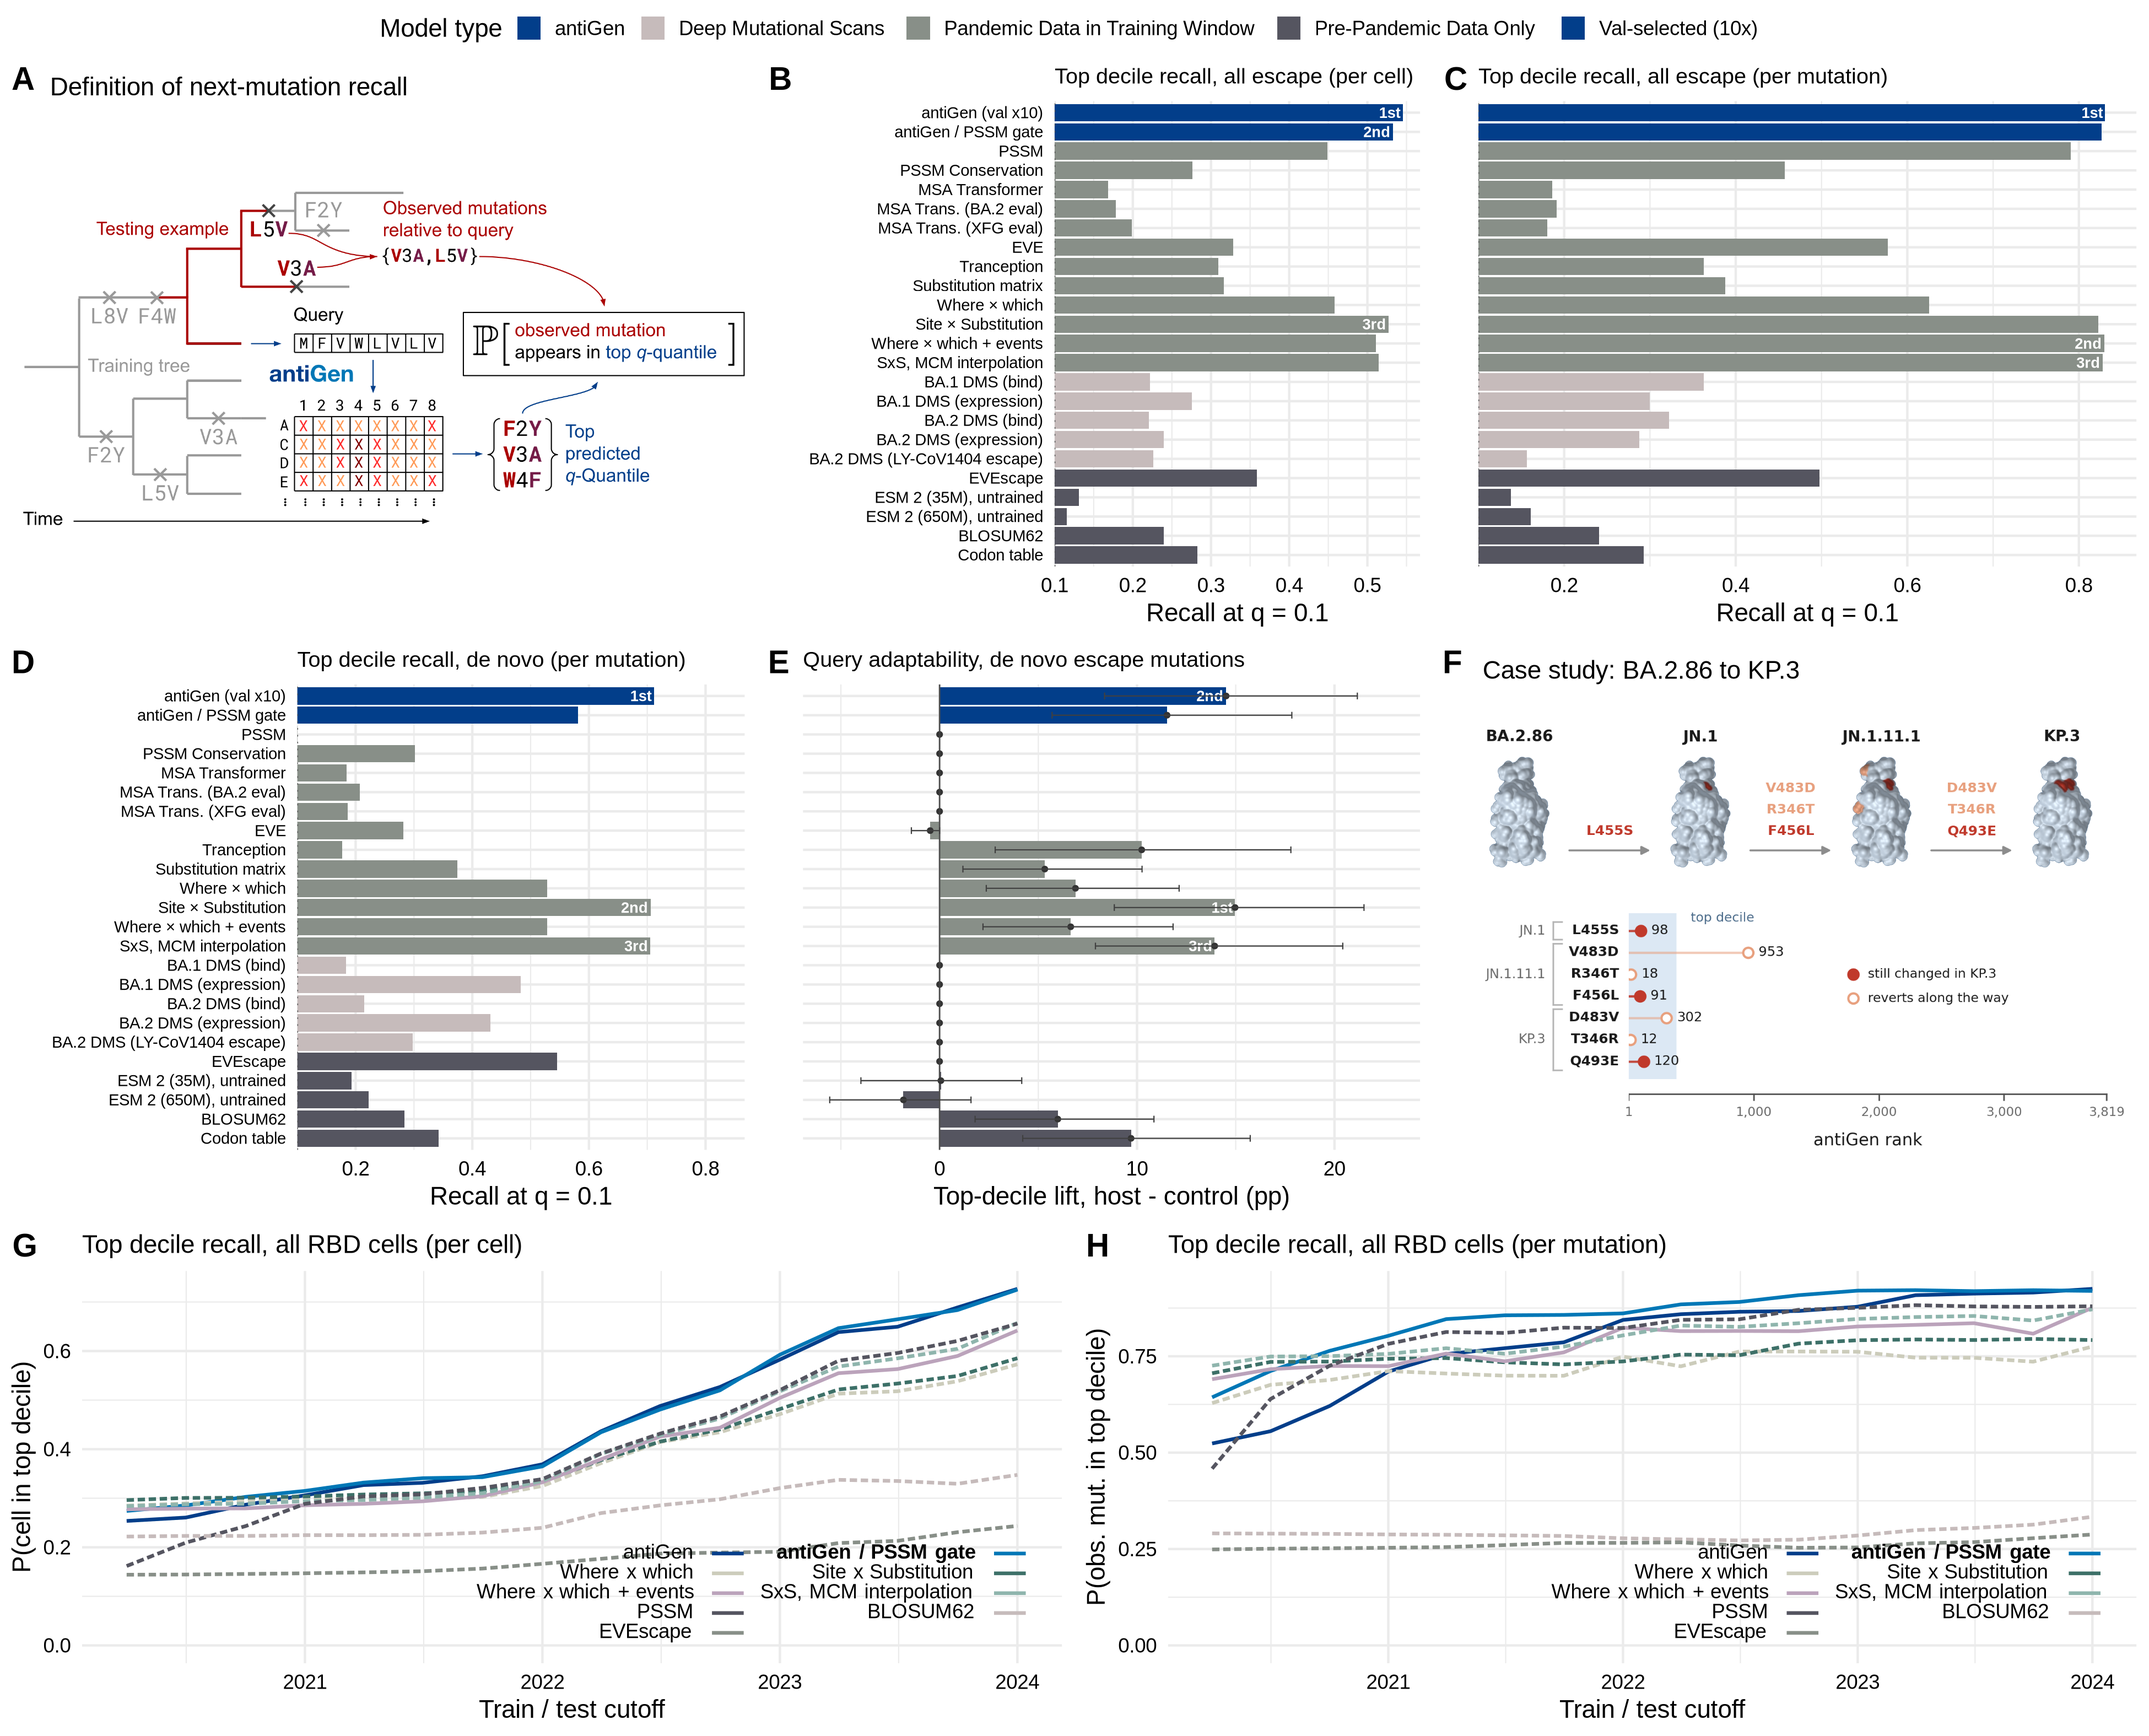
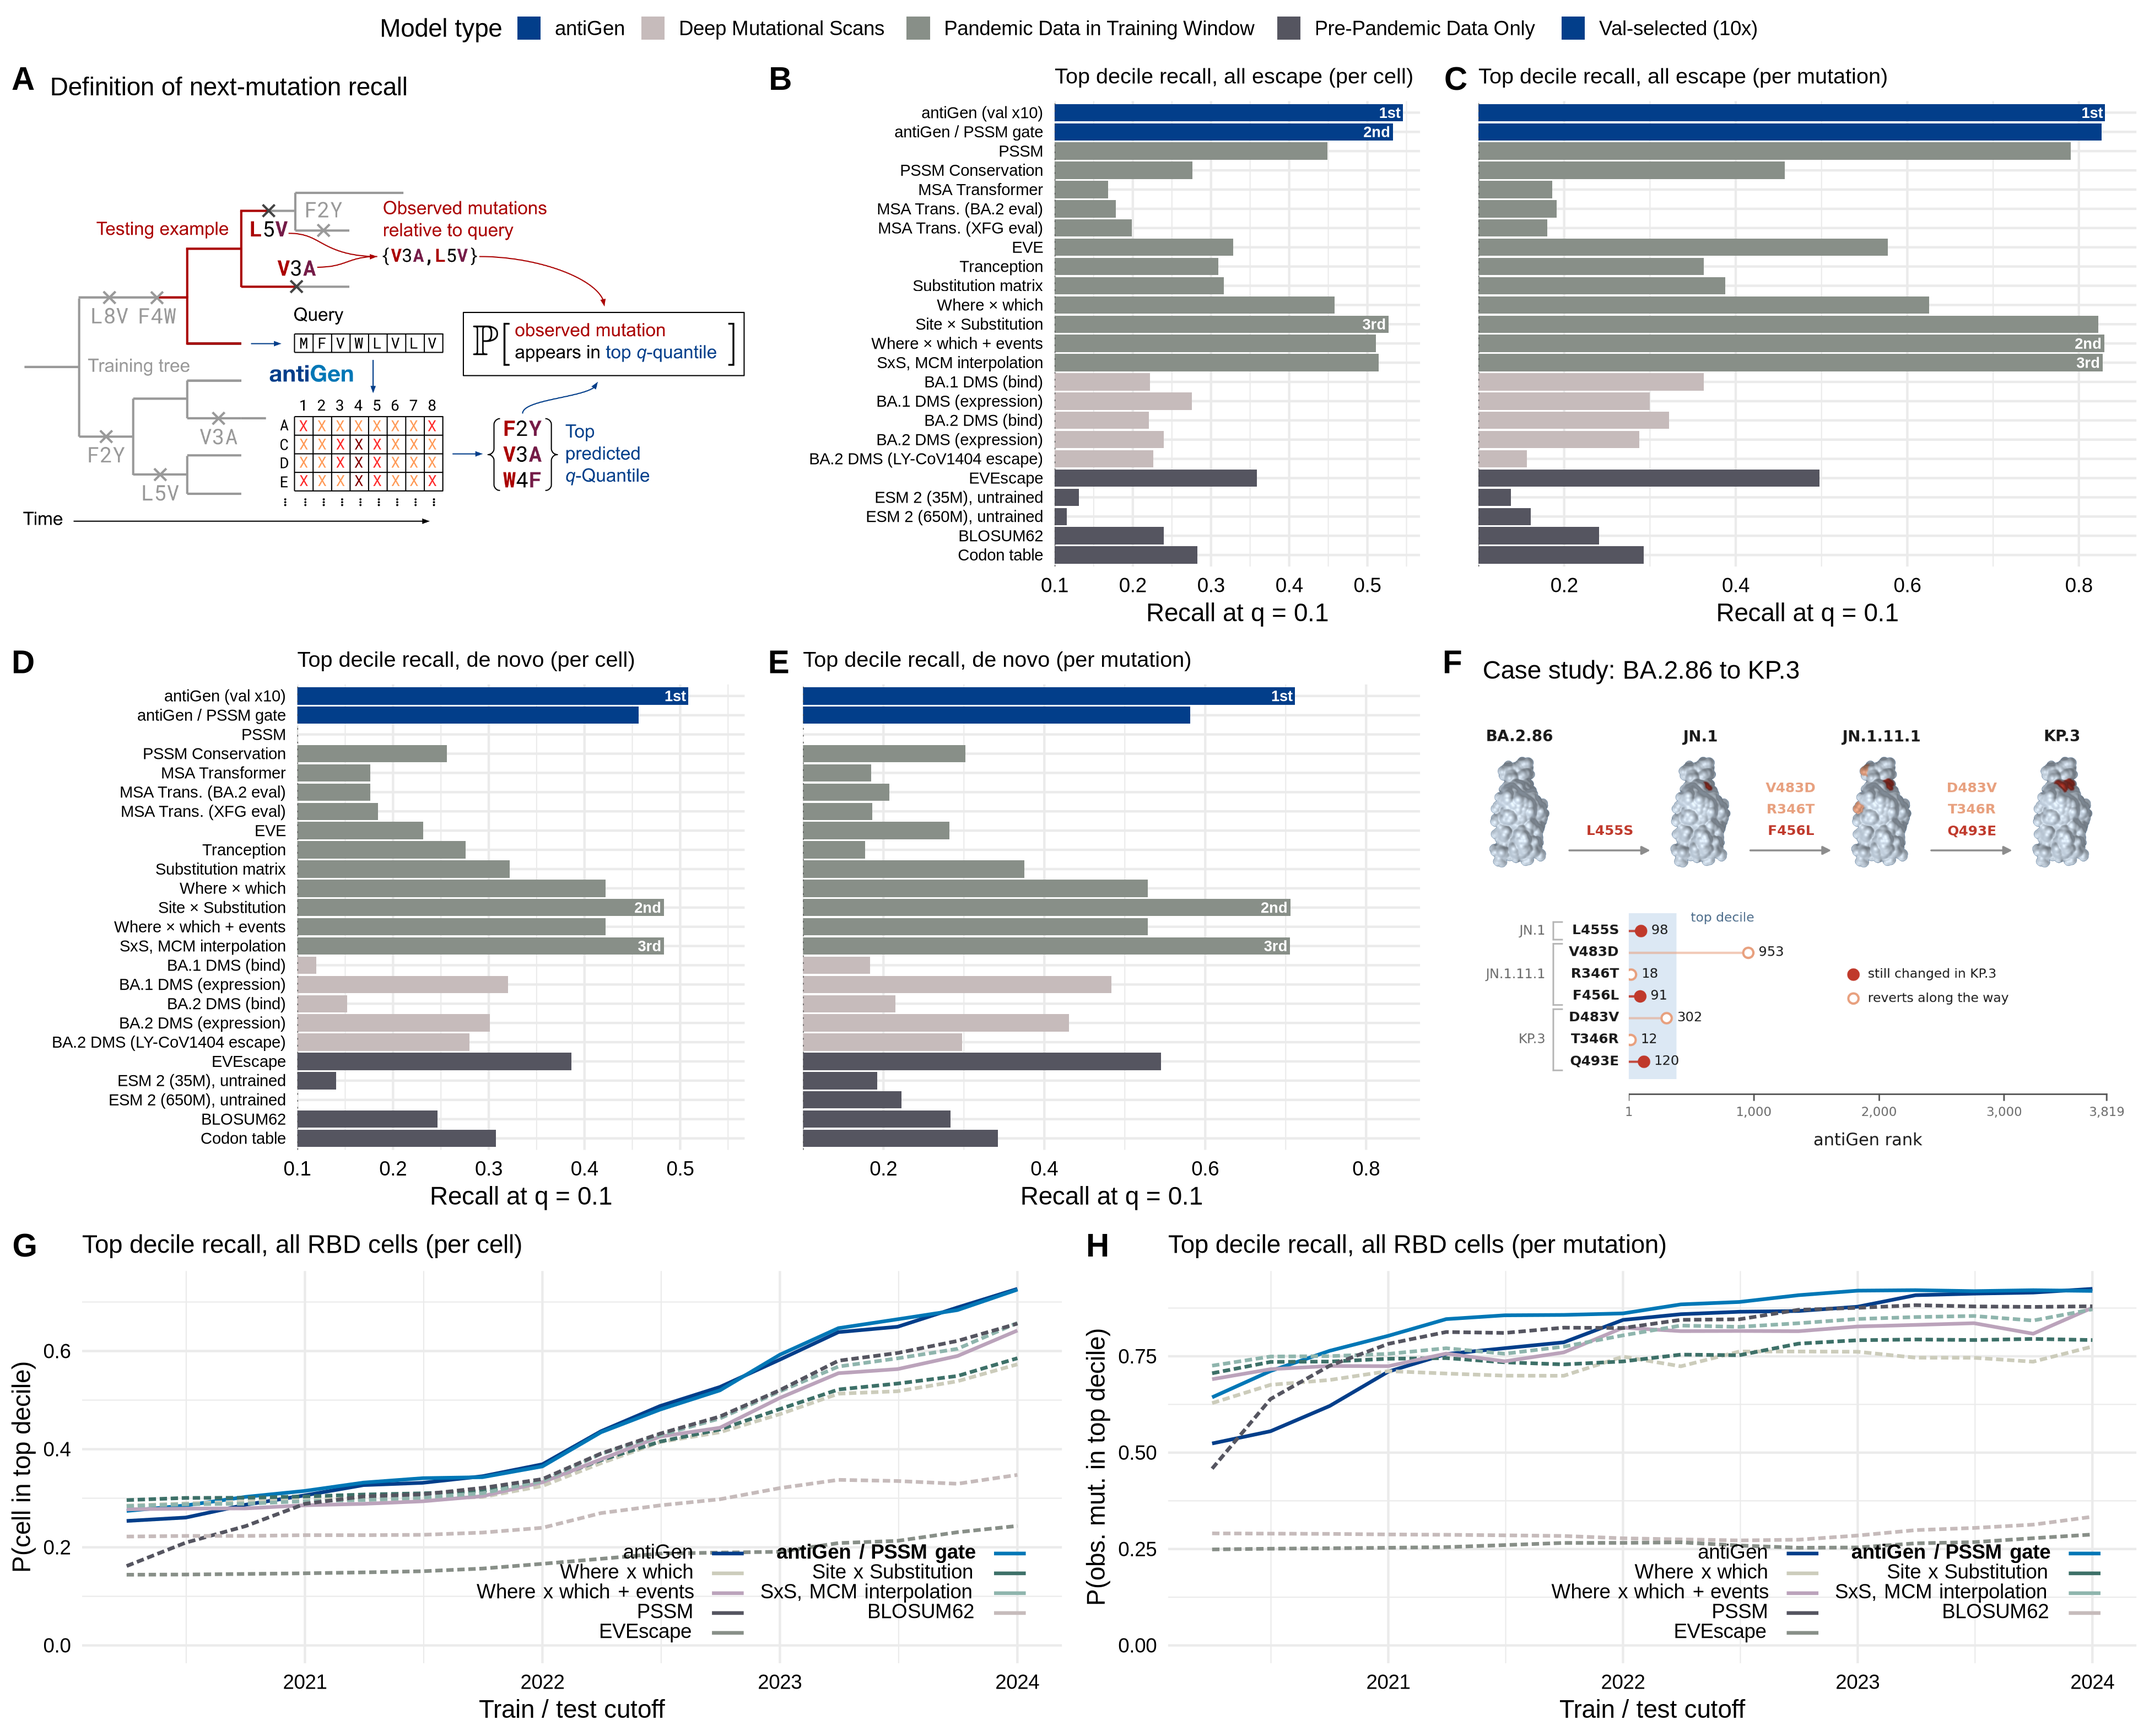
revised2: D and E are the de novo pooling pair, not the event-weighted pair
I built the wrong panels. Taking "replace C and D with the event-weighted A and
B" as the operation it names puts BOTH event-weighted panels in C and D and
discards the per-cell de novo panel -- which destroys the 2x2 rather than
completing it. The end state described was the thing to build:

  row 1   B  top decile, all,    per cell      C  top decile, all,    per mutation
  row 2   D  top decile, de novo, per cell     E  top decile, de novo, per mutation

So the old C (de novo, per cell) MOVES to D, and the second event-weighted panel
takes E. Both background-lift panels drop out; sc2_results_revised still carries
them.

decile_dn_pc is a new grob rather than a reuse of decile_dn: the same metric
sits SECOND in the revised figure, where it is drawn without y-axis labels, and
LEADS row 2 here, where it needs them. decile_dn_evt flips to first = FALSE for
the same reason, now that it sits second.

NOTES s113 updated.

diff --git a/experiments/multitree/NOTES.md b/experiments/multitree/NOTES.md
@@ -12147,17 +12147,24 @@ one of the other figures' own objects.
 | | sc2_results_revised | revised2 |
 |---|---|---|
 | C | top decile, de novo, PER CELL | top decile, all, PER MUTATION |
-| D | background lift, all list cells | top decile, de novo, PER MUTATION |
+| D | background lift, all list cells | top decile, de novo, PER CELL |
+| E | background lift, de novo | top decile, de novo, PER MUTATION |
 | G | DMS correlation | the cutoff series, PER CELL |
 
-**The layout is the argument.** B and C are ONE quantity -- top-decile recall on all
-escape mutations -- counted per cell and per mutation; G and H are one quantity the
-same way across the cutoff series. The gap within each pair reads directly as how much
-of a score rides on recurrence, which is the thing s109/s110 built the machinery to
-measure and which no single figure showed side by side before.
+**The layout is the argument, and B-E is a 2x2 of it**: {all, de novo} x {per cell,
+per mutation}, reading left to right per cell -> per mutation in both rows. G and H
+carry the same contrast across the cutoff series. The gap within each pair reads
+directly as how much of a score rides on recurrence, which is the thing s109/s110 built
+the machinery to measure and which no single figure showed side by side before.
 
-Dropped in the process: cell-weighted de novo recall (old C) and adaptability on all
-cells (old D). `sc2_results_revised` is untouched and still carries both.
+Dropped in the process: BOTH background-lift panels. `sc2_results_revised` is untouched
+and still carries them.
+
+**I built the wrong D and E first.** Reading "replace C and D with the event-weighted
+A and B" literally puts both event-weighted panels in C and D and discards the per-cell
+de novo panel, which destroys the 2x2 rather than completing it. The end state the
+instruction described -- not the operation it named -- was the thing to build: the old
+C MOVES to D and the second event-weighted panel takes E.
 
 ### Three subprocesses, not two
 
